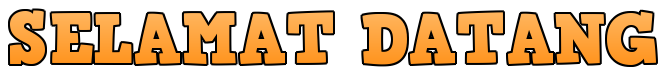
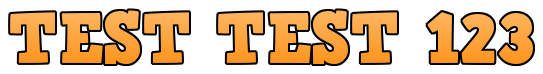
img sample

diff --git a/button.css b/button.css
@@ -5,7 +5,7 @@ button {
 	text-align: left;
 	color: darkolivegreen;
 
-	width: 90px;
+	width: 100px;
 	padding: 7px 8px 7px 32px;
 	border-radius: 7px;
 	margin-top: 10px;

diff --git a/header.html b/header.html
@@ -18,7 +18,7 @@
 </head>
 
 <body>
-    <h1>KUIZ PANTAS MATEMATIK</h1>
+    <h1>TEST TEST 123</h1>
 
 </body>
 

diff --git a/jawab_soalan.php b/jawab_soalan.php
@@ -1,7 +1,7 @@
 <?php
-include ("sambungan.php");
-
+include('sambungan.php');
 ?>
+
 <html>
 <link rel="stylesheet" href="senarai.css">
 <link rel="stylesheet" href="button.css">
@@ -25,18 +25,16 @@ include ("sambungan.php");
                 <td class="soalan">
                     <?php echo $soalan['namasoalan']; ?><br>
                     <input type="radio" name="<?php echo $soalan['idsoalan'];?>" value="A">
-                    <?php echo "A. ".$soalan["pilihana"]?><br>
-
+                    <?php echo "A. ".$soalan['pilihana']; ?><br>
                     <input type="radio" name="<?php echo $soalan['idsoalan'];?>" value="B">
-                    <?php echo "B. ".$soalan["pilihanb"]?><br>
-
+                    <?php echo "B. ".$soalan['pilihanb']; ?><br>
                     <input type="radio" name="<?php echo $soalan['idsoalan'];?>" value="C">
-                    <?php echo "C. ".$soalan["pilihanc"]?><br>
+                    <?php echo "B. ".$soalan['pilihanc']; ?><br>
+
+
                 </td>
             </tr>
-
-            <?php $bil = $bil + 1;} ?>
-
+            <?php $bil = $bil = 1; } ?>
         </table>
         <button type="submit" class="semak">Semak</button>
     </form>

diff --git a/jawab_semak.php b/jawab_semak.php
@@ -1,21 +1,16 @@
 <?php
-include ("sambungan.php");
-
+include ('sambungan.php');
 session_start();
-$idpelajar = $_SESSION["username"];
-
+$idpelajar = $_SESSION['username'];
 date_default_timezone_set("Asia/Kuala Lumpur");
 $tarikh = date('d/m/Y');
-
 $sql = "select * from soalan order by idsoalan ASC";
 $data = mysqli_query($sambungan, $sql);
-
-while ($soalan = mysqli_fetch_array($data)) {
-    $idsoalan = $soalan["idsoalan"];
-    $jawapanpelajar = $_POST["idsoalan"];
+while ($soalan = mysqli_fetch_array($data)){
+    $idsoalan = $soalan['idsoalan'];
+    $jawapanpelajar = $_POST["$idsoalan"];
     $sql = "insert into kuiz values('$idpelajar','$idsoalan','$tarikh','$jawapanpelajar',0)";
     $datakuiz = mysqli_query($sambungan, $sql);
-    }
-include ("jawab_ulangkaji.php");
-
+}
+include ('jawab_ulangkaji.php');
 ?>

diff --git a/jawab_mula.php b/jawab_mula.php
@@ -1,16 +1,14 @@
 <?php
-include ("sambungan.php");
+include ('sambungan.php');
 
 session_start();
 $idpelajar = $_SESSION['username'];
 
-$sql = "select * from kuiz where idpelajar = '".$idpelajar."'";
+$sql = "select * from kuiz where idpelajar ='".$idpelajar."'";
 $data = mysqli_query($sambungan, $sql);
-//semak sama ada pelajar dah jawab atau belum
-if(mysqli_num_rows($data)>0){
+//semak samada pelajar dah jawab atau belum
+if (mysqli_num_rows($data) > 0 )
     header("Location: jawab_ulangkaji.php");
-}else{
-    header("Location: jawab_soalan.php");
-}
-
+else 
+    header("Location: jawab_soalan.php ");
 ?>

diff --git a/jawab_ulangkaji.php b/jawab_ulangkaji.php
@@ -1,5 +1,5 @@
 <?php
-include "sambungan.php";
+include ('sambungan.php');
 
 if (session_status() == PHP_SESSION_NONE) {
     session_start();
@@ -48,9 +48,9 @@ if (session_status() == PHP_SESSION_NONE) {
             if($kuiz['pilih']==$kuiz['jawapan']){
                 echo "<img src='betul.png'>";
                 $betul = $betul + 1;
-            }else {
+            }else 
                 echo "<img src='salah.png'>";
-            }
+            
             ?>
         </td>
     </tr>

diff --git a/login.php b/login.php
@@ -66,6 +66,6 @@ if (isset($_POST['userid'])) {
         </table>
         <button class="login" type="submit">Login</button>
         <!-- MAYBE WRONG -->
-        <button class="signup" type="button" onclick="window.location='pelajar_insert.html'">SignUp</button>
+        <button class="signup" type="button" onclick="window.location='signup.php'">Sign Up</button>
     </form>
 </body>

diff --git a/sambungan.php b/sambungan.php
@@ -2,7 +2,7 @@
 	$host = 'localhost';
 	$user = 'root';
 	$password = '';
-	$database = 'kuizonline';
+	$database = 'kuizonline2';
 	
 	$sambungan = mysqli_connect($host, $user, $password, $database) or die('Sambungan gagal');
 	//echo "Sambungan berjaya";
